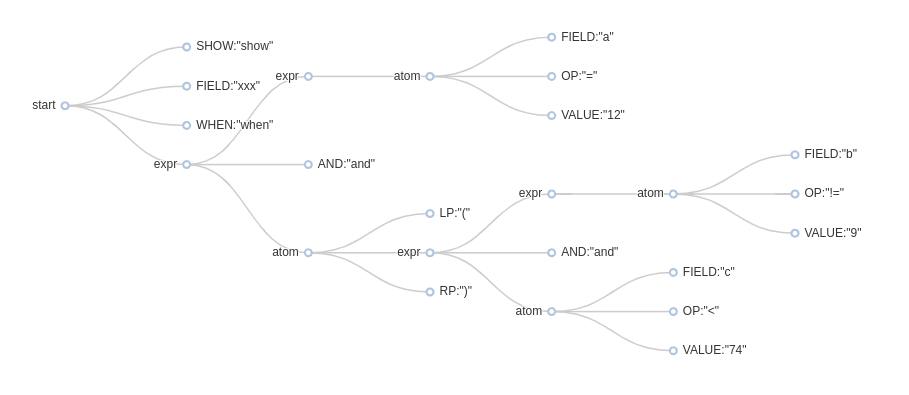
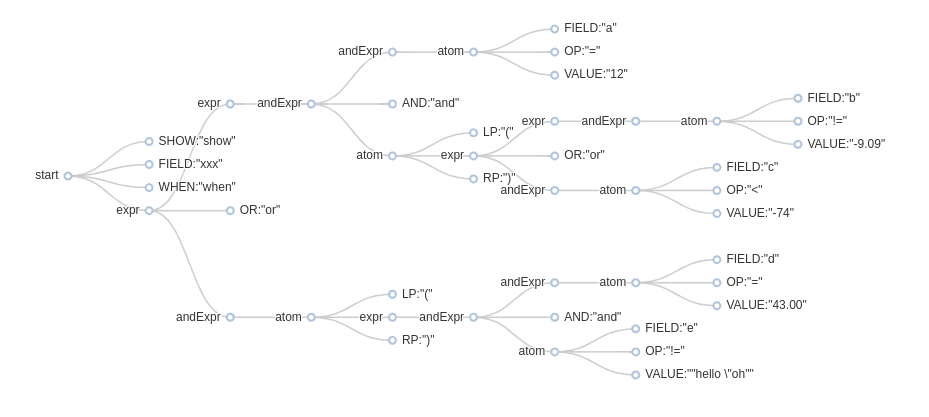
update readme

diff --git a/README.md b/README.md
@@ -19,7 +19,7 @@ age < 42 and (name != "simon" or work = 'writer')
 In 'browser' directory.
 
 ```sql
-show xxx when a = 12 and (b != 9 and c < 74)
+show xxx when a = 12 and (b != -9.09 or c < -74) or (d = 43.00 and e != "hello \"oh")
 
 ```
 

diff --git a/browser/README.md b/browser/README.md
@@ -1,7 +1,7 @@
 grammar-parser
 
 ```sql
-show xxx when a = 12 and (b != 9 and c < 74)
+show xxx when a = 12 and (b != -9.09 or c < -74) or (d = 43.00 and e != "hello \"oh")
 
 ```
 
